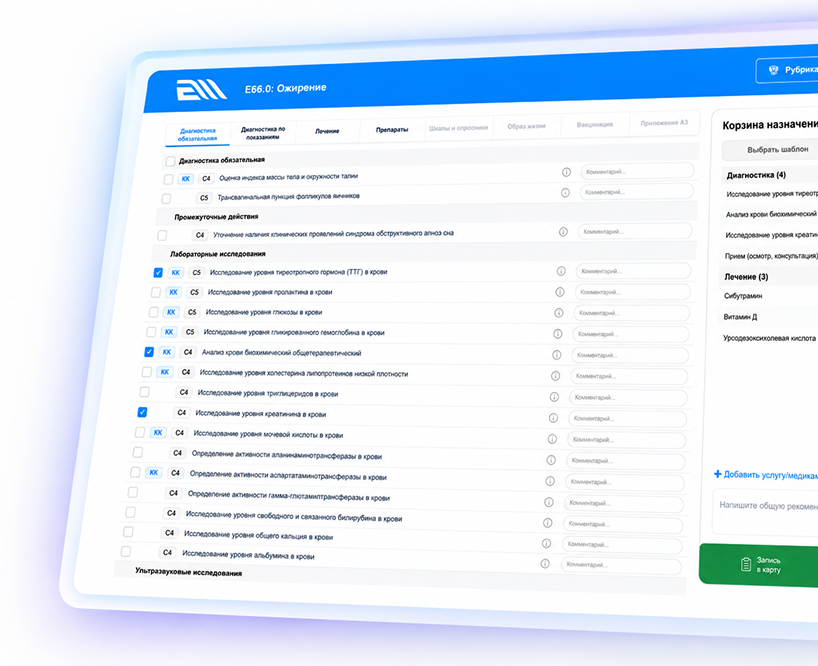
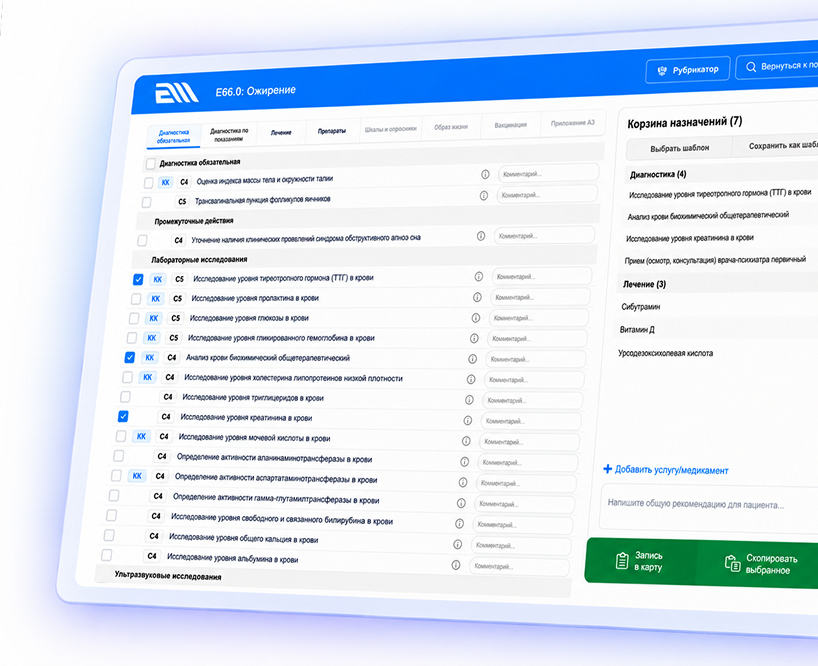
feat: hero block styles

diff --git a/app/page.tsx b/app/page.tsx
@@ -4,7 +4,12 @@ import FaqItem from "./components/FaqItem";
 import CorporateAccess from "./components/CorporateAccess";
 import Head from 'next/head';
 import { Metadata } from "next";
-import heroImage from "@/assets/images/hero-img-new.png";
+import heroImage from "@/assets/images/landing/main.png";
+import videoIcon from "@/assets/images/landing/video.png";
+import minzdravIcon from "@/assets/images/landing/minzdrav.png";
+import searchIcon from "@/assets/images/landing/search.png";
+import starIcon from "@/assets/images/landing/star.png";
+import peopleImage from "@/assets/images/landing/people.png";
 import { getB2cSessionStatus } from "./lib/requireActiveB2cSession";
 
 export const metadata: Metadata = {
@@ -157,28 +162,40 @@ export default async function Home() {
         <section id="hero" className="hero-section">
           <div className="hero-container">
             <div className="hero-content">
+              <div className="hero-eyebrow">Клинические рекомендации Минздрава РФ</div>
               <div className="hero-text">
-                <h1 className="h1">
-                  Клинические рекомендации<br/>Минздрава РФ
+                <h1 className="hero-title">
+                  Клинические<br/>рекомендации<br/>Минздрава <span>за секунды</span>
                 </h1>
                 <p className="lead-text">
-                  Актуальный справочник, созданный для врачей,
-                  клиник и студентов. Находите рекомендации
-                  по диагнозу, МКБ-10 или
-                  ключевым словам — в один клик.
+                  Актуальный справочник, созданный для врачей, клиник<br/>
+                  и студентов. Находите рекомендации по диагнозу, МКБ-10<br/>
+                  или ключевым словам — в один клик.
                 </p>
               </div>
-              <div className="hero-buttons">
-                <Link href={recommendationsHref} className="btn btn-hero-demo">Найти рекомендации</Link>
-                <Link href="/login" className="btn btn-pricing">
-                  Приобрести подписку
-                </Link>
+              <div className="hero-actions-flow">
+                <div className="hero-buttons">
+                  <Link href={recommendationsHref} className="btn btn-hero-demo">Попробовать бесплатно</Link>
+                  <Link href="#video" className="btn btn-pricing hero-video-button">
+                    <Image src={videoIcon} alt="" width={27} height={27}/>
+                    Смотреть видео
+                  </Link>
+                </div>
+                <div className="hero-benefits">
+                  <div className="hero-benefit"><span><Image src={minzdravIcon} alt=""/></span><p>Актуальная база<br/>Минздрава РФ</p></div>
+                  <div className="hero-benefit"><span><Image src={searchIcon} alt=""/></span><p>Удобный поиск<br/>за секунды</p></div>
+                  <div className="hero-benefit"><span><Image src={starIcon} alt=""/></span><p>Клинические<br/>рекомендации от СтАР</p></div>
+                </div>
+                <div className="hero-trust">
+                  <Image src={peopleImage} alt="" width={139} height={42}/>
+                  <p>Уже используют более <span>5000 врачей</span><br/>в клиниках по всей России</p>
+                </div>
               </div>
             </div>
             <div className="hero-img">
               <Image src={heroImage}
                      alt="Клинические рекомендации Минздрава РФ - иллюстрация"
-                     width="638" height="442" loading="lazy"/>
+                     width={818} height={666} priority/>
             </div>
           </div>
         </section>

diff --git a/app/globals.css b/app/globals.css
@@ -1191,6 +1191,185 @@ html {
   scroll-behavior: smooth;
 }
 
+/* Landing hero */
+.hero-section {
+  min-height: 666px;
+  padding: 0;
+  overflow: hidden;
+  background: #fff;
+}
+
+.hero-container {
+  min-height: 666px;
+  gap: 24px;
+  padding: 0 20px;
+  align-items: center;
+}
+
+.hero-content {
+  z-index: 1;
+  flex: 0 0 560px;
+  align-items: flex-start;
+}
+
+.hero-eyebrow {
+  width: 362px;
+  height: 30px;
+  display: flex;
+  align-items: center;
+  justify-content: center;
+  border-radius: 4px;
+  color: #0b60fb;
+  background: #e5f5fc;
+  font: 700 14px/1 Arial, sans-serif;
+  text-transform: uppercase;
+}
+
+.hero-text {
+  margin: 10px 0 0;
+}
+
+.hero-title {
+  margin: 0;
+  color: #0f1e3f;
+  font: 700 45px/1.15 Arial, sans-serif;
+  letter-spacing: -0.5px;
+}
+
+.hero-title span {
+  color: #0b60fb;
+}
+
+.hero-section .lead-text {
+  margin: 28px 0 0;
+  color: #001b4c;
+  font: 400 18px/1.49 Arial, sans-serif;
+  white-space: nowrap;
+}
+
+.hero-actions-flow {
+  width: 100%;
+  display: flex;
+  flex-direction: column;
+  align-items: flex-start;
+}
+
+.hero-section .hero-buttons {
+  flex: 0 0 auto;
+  gap: 17px;
+  margin-top: 28px;
+}
+
+.hero-section .btn-hero-demo,
+.hero-section .btn-pricing {
+  height: 54px;
+  margin: 0;
+  border-radius: 5px;
+  font: 700 14px/1 Arial, sans-serif;
+}
+
+.hero-section .btn-hero-demo,
+.hero-section .btn-pricing {
+  height: 54px;
+  margin: 0;
+  border-radius: 5px;
+  font: 700 14px/1 Arial, sans-serif;
+}
+
+.hero-section .btn-hero-demo {
+  width: 237px;
+  padding: 0;
+  color: #f0f8ff;
+  background: #0b60fb;
+}
+
+.hero-section .btn-pricing {
+  width: 196px;
+  gap: 7px;
+  color: #0b60fb;
+  border: 1px solid #0071d8;
+  background: #fff;
+  text-decoration: none;
+}
+
+.hero-video-button img {
+  flex: 0 0 auto;
+}
+
+.hero-benefits {
+  flex: 0 0 auto;
+  display: flex;
+  gap: 10px;
+  margin-top: 44px;
+}
+
+.hero-benefit {
+  display: flex;
+  align-items: center;
+  gap: 6px;
+}
+
+.hero-benefit > span {
+  width: 33px;
+  height: 33px;
+  display: flex;
+  flex: 0 0 33px;
+  align-items: center;
+  justify-content: center;
+  border-radius: 4px;
+  background: #edf6ff;
+}
+
+.hero-benefit img {
+  width: auto;
+  height: auto;
+  max-width: 25px;
+  max-height: 24px;
+}
+
+.hero-benefit p {
+  min-width: 90px;
+  color: #001b4c;
+  font: 400 13px/1.49 Arial, sans-serif;
+  text-align: left;
+  white-space: nowrap;
+}
+
+.hero-trust {
+  flex: 0 0 auto;
+  display: flex;
+  align-items: center;
+  gap: 18px;
+  margin-top: 56px;
+}
+
+.hero-trust > img {
+  width: 139px;
+  height: 42px;
+}
+
+.hero-trust p {
+  color: #001b4c;
+  font: 700 14px/1.35 Arial, sans-serif;
+  text-align: left;
+}
+
+.hero-trust p span {
+  color: #0b60fb;
+}
+
+.hero-section .hero-img {
+  flex: 0 0 818px;
+  min-width: 818px;
+}
+
+.hero-section .hero-img img {
+  width: 818px;
+  height: 666px;
+  max-width: none;
+  max-height: none;
+}
+
 main,
 section,
 footer {
@@ -1378,6 +1557,63 @@ body.noscroll {
     min-height: auto;
   }
 
+  .hero-section {
+    padding: 0;
+  }
+
+  .hero-content {
+    flex: none;
+    align-items: center;
+  }
+
+  .hero-eyebrow {
+    width: min(362px, 100%);
+    font-size: 12px;
+  }
+
+  .hero-title {
+    font-size: 36px;
+    text-align: left;
+  }
+
+  .hero-section .lead-text {
+    font-size: 17px;
+    text-align: left;
+    white-space: normal;
+  }
+
+  .hero-section .lead-text br {
+    display: none;
+  }
+
+  .hero-section .hero-buttons {
+    width: 100%;
+    flex-direction: column;
+  }
+
+  .hero-benefits {
+    width: 100%;
+    flex-direction: column;
+    align-items: flex-start;
+    gap: 12px;
+  }
+
+  .hero-section .hero-img {
+    width: 100%;
+    min-width: 0;
+    flex: none;
+  }
+
+  .hero-section .hero-img img {
+    width: 100%;
+    height: auto;
+  }
+
+  .hero-trust {
+    width: 100%;
+    gap: 12px;
+  }
+
   .hero-container {
     flex-direction: column;
     justify-content: center;
@@ -1432,6 +1668,13 @@ body.noscroll {
     line-height: 100%;
     padding: 5px;
     margin-top: 0;
+  }
+
+  .hero-section .btn-hero-demo,
+  .hero-section .btn-pricing {
+    width: 100%;
+    height: 54px;
+    padding: 0 10px;
   }
 
   .btn-pricing {
